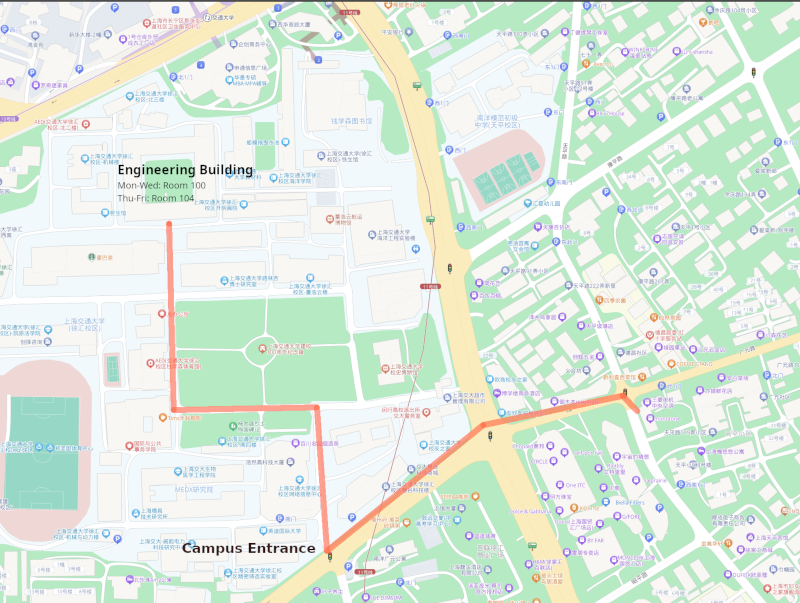
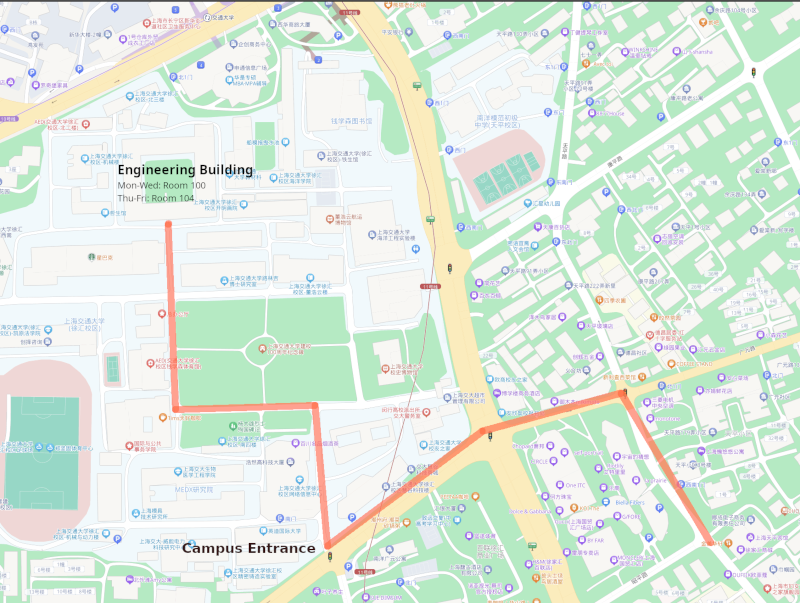
workshop

diff --git a/workshop202404/program/index.html b/workshop202404/program/index.html
@@ -432,7 +432,7 @@
 <li>Room: Room 300, Nr. 5&amp;6 Science Building</li>
 </ul>
 <h1 id="workshop">Workshop</h1>
-<p>The Workshop from Monday 15th to Friday 19th will take place at the <em>Shanghai Jiao Tong University</em>, <strong>Xuhui campus</strong>:</p>
+<p>The Workshop takes place at the <em>Shanghai Jiao Tong University</em>, <strong>Xuhui campus</strong>:</p>
 <ul>
 <li>Place: <strong>Xuhui Campus</strong>, <strong>Engineering Building (工程馆)</strong></li>
 <li>Room:<ul>
